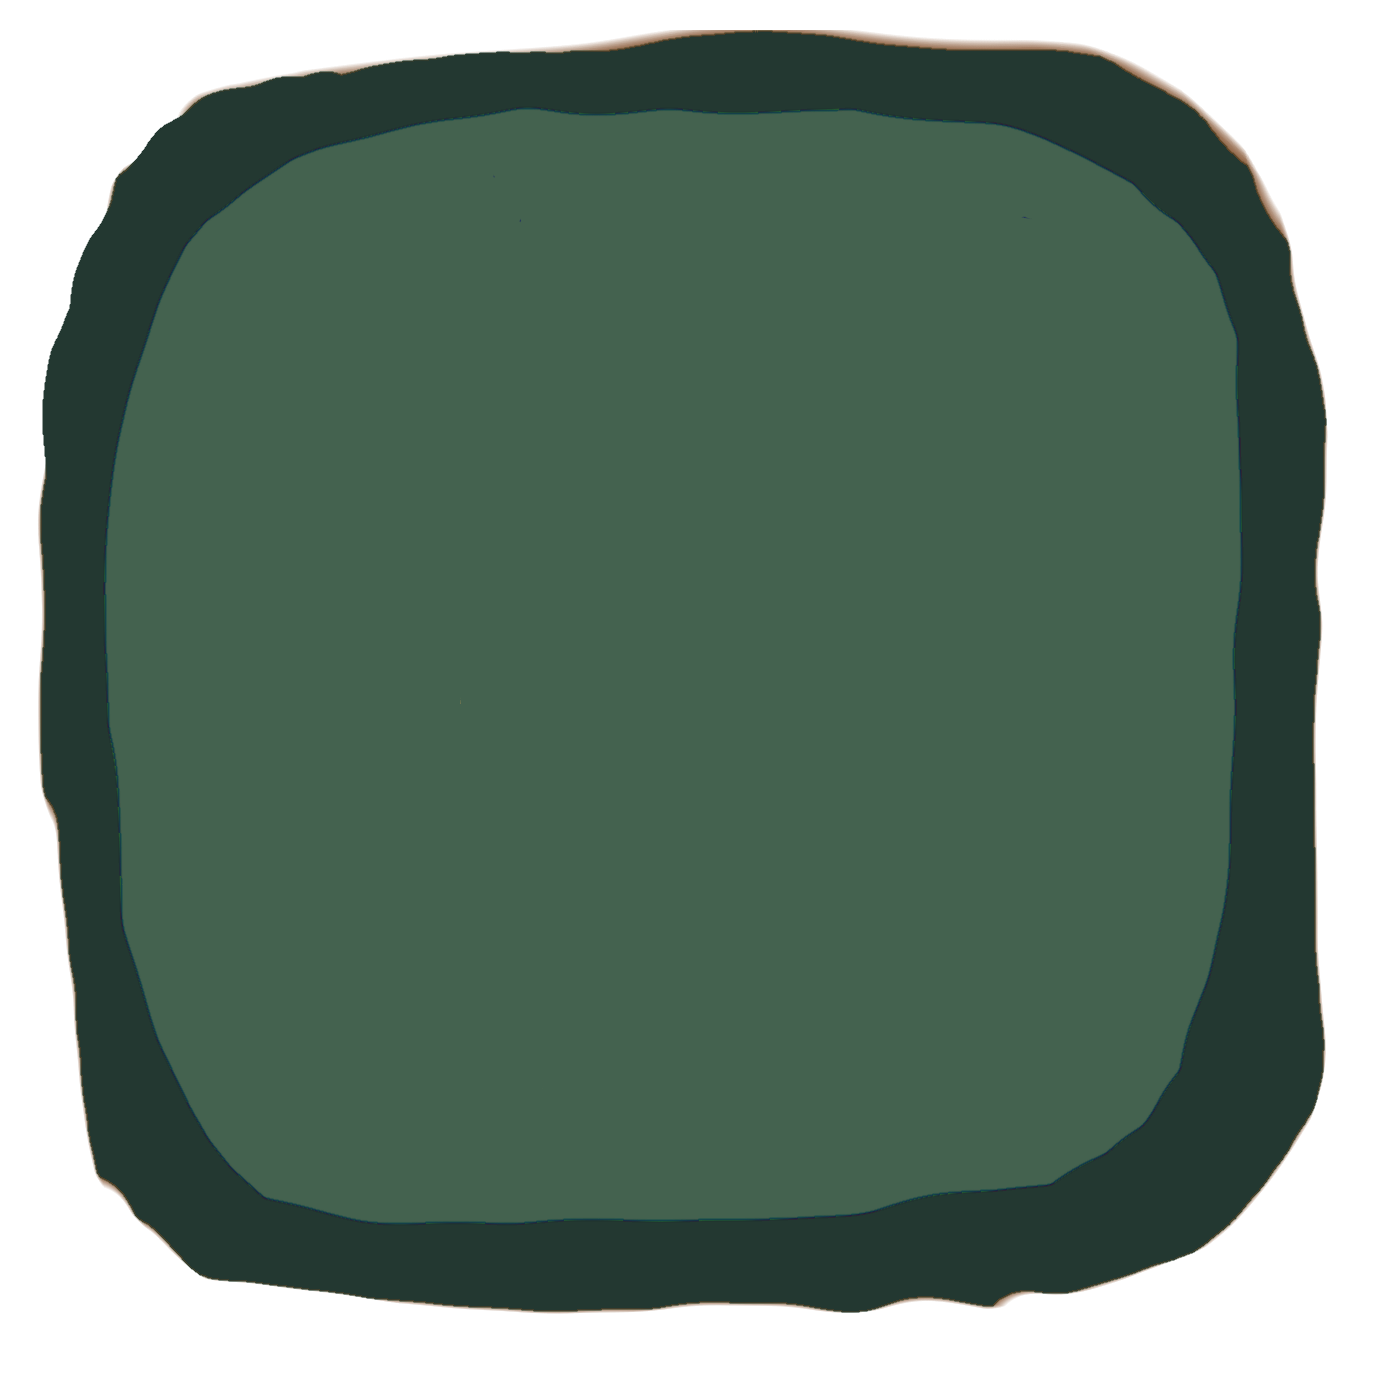
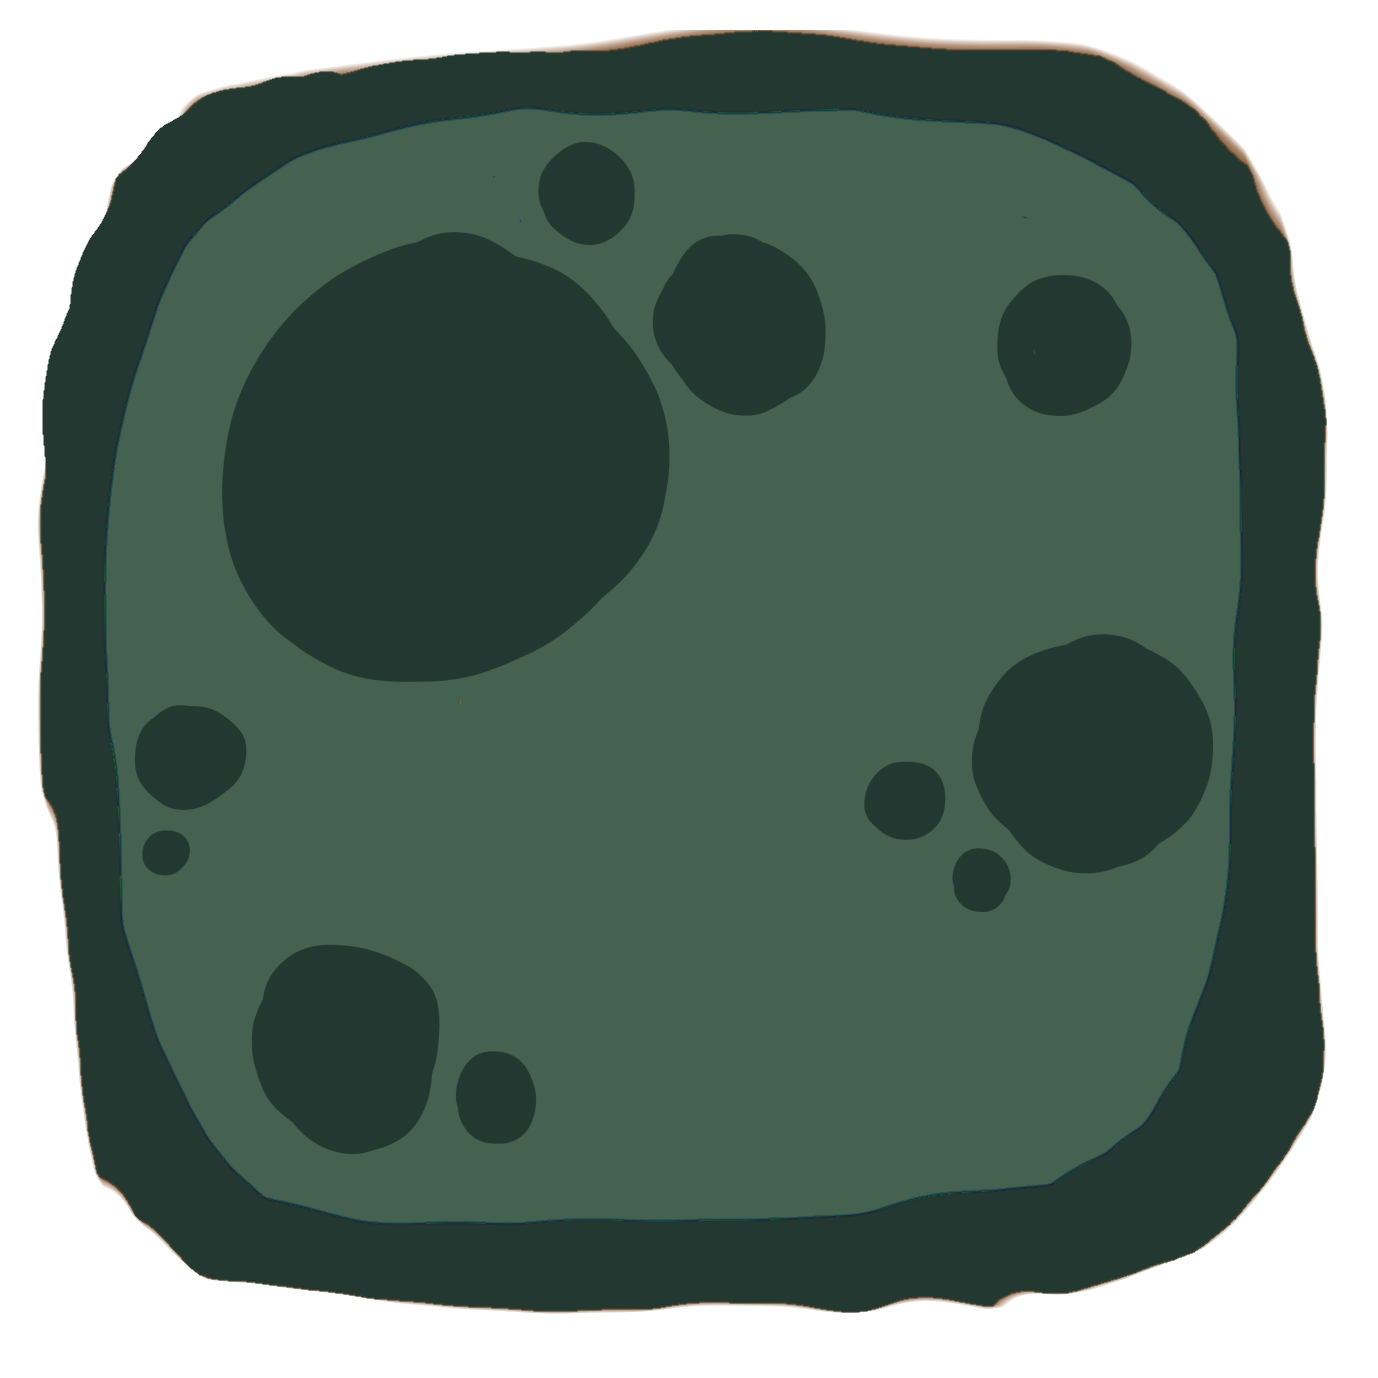
many Snake

diff --git a/main.c b/main.c
@@ -172,21 +172,21 @@ int main(int argc, char* args[]) {
 			}
 
 			if(point >= 6){
-				menu_bg_surface = IMG_Load("image/ani.png");
+				menu_bg_surface = IMG_Load("image/Snake4.png");
 				menu_bg_texture = SDL_CreateTextureFromSurface(renderer, menu_bg_surface);
 			}
 			else{
 				if(point >= 4){
-					menu_bg_surface = IMG_Load("image/three.png");
+					menu_bg_surface = IMG_Load("image/Snake3.png");
 					menu_bg_texture = SDL_CreateTextureFromSurface(renderer, menu_bg_surface);
 				}
 				else{
 					if(point >= 2){
-						menu_bg_surface = IMG_Load("image/squer.png");
+						menu_bg_surface = IMG_Load("image/Snake2.png");
 						menu_bg_texture = SDL_CreateTextureFromSurface(renderer, menu_bg_surface);
 					}
 					else{
-						menu_bg_surface = IMG_Load("image/body.png");
+						menu_bg_surface = IMG_Load("image/Snake1.png");
 						menu_bg_texture = SDL_CreateTextureFromSurface(renderer, menu_bg_surface);
 					}
 				}
